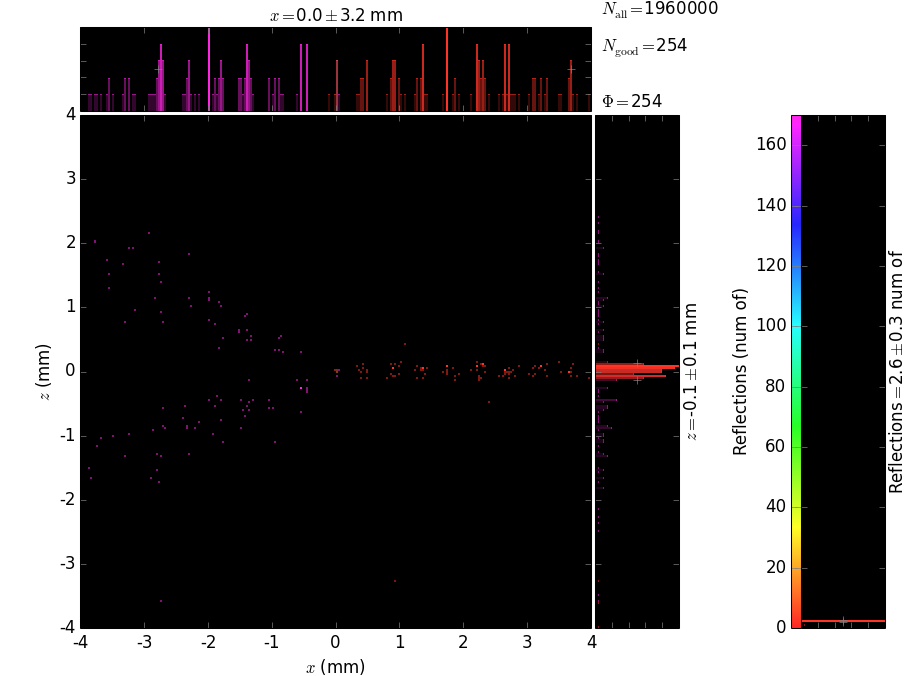
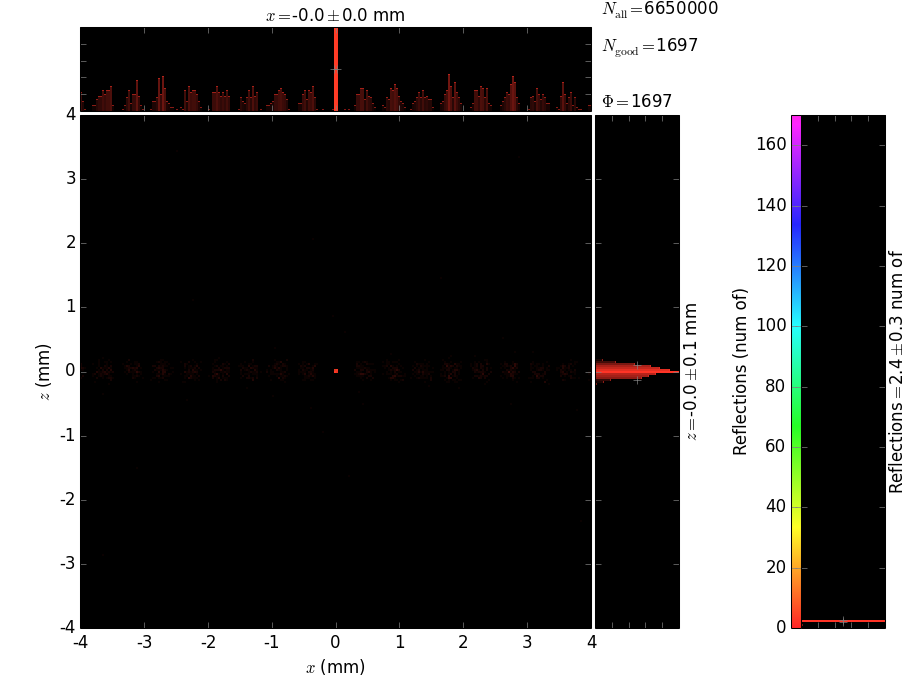
minor progress

diff --git a/LensPolynomial.py b/LensPolynomial.py
@@ -17,33 +17,33 @@ import matplotlib.pyplot as plt
 # S2(x) - ray path from lens exit to the point of focus
 
 # Make a picture explaining those
-def getPolyCoeffs(x0,x1,xm,x2,x3,h1,Din,Dout,hMax):
+def getPolyCoeffs(y0,y1,ym,y2,y3,h1,Din,Dout,hMax):
     h2 = h1 * Dout/Din
     hm = hMax * h1/(Din/2.)
     # y(x) = p0 + p1 x + p2 x**2 + p3 x**3 + p4 x**$ + p5 x**5
     a = []
     b = []
     # Preparing A*p = B matrices for linalg.solve 
-    # y(x1) == h1
-    a.append(shape_coeffs(x1))
+    # y(y1) == h1
+    a.append(shape_coeffs(y1))
     b.append(h1)
-    # y(x2) == h2
-    a.append(shape_coeffs(x2))
+    # y(y2) == h2
+    a.append(shape_coeffs(y2))
     b.append(h2)
-    # y(xm) == hm
-    a.append(shape_coeffs(xm))
+    # y(ym) == hm
+    a.append(shape_coeffs(ym))
     b.append(hm)
-    # y'(x1) == S1'(x1)
+    # y'(y1) == S1'(y1)
     # first find left slope
-    s1 = h1/(x1-x0)
-    a.append(diff_coeffs(x1))
+    s1 = h1/(y1-y0)
+    a.append(diff_coeffs(y1))
     b.append(s1)
-    # y'(x2) == S2'(x)
-    s2 = -h2/(x3-x2)
-    a.append(diff_coeffs(x2))
+    # y'(y2) == S2'(x)
+    s2 = -h2/(y3-y2)
+    a.append(diff_coeffs(y2))
     b.append(s2)
-    # y'(xm) == 0
-    a.append(diff_coeffs(xm))
+    # y'(ym) == 0
+    a.append(diff_coeffs(ym))
     b.append(0.)
     p = np.linalg.solve(a,b)
     return p
@@ -58,19 +58,19 @@ def diff_coeffs(x):
 
 if __name__ == '__main__':
     Din, Dout = 4.5, 2.4
-    x0,x1,xm,x2,x3,h1 = 0., 40., 85., 140., 155., -2.1
+    y0,y1,ym,y2,y3,h1 = 0., 40., 85., 140., 155., -2.1
     hMax = 4.
     h2 = h1 * Dout/Din
     hm = 4. * h1/(Din/2.)
-    p = getPolyCoeffs(x0,x1,xm,x2,x3,h1,Din,Dout,hMax)
+    p = getPolyCoeffs(y0,y1,ym,y2,y3,h1,Din,Dout,hMax)
     print p
-    x = np.linspace(x1,x2,1000)
+    x = np.linspace(y1,y2,1000)
     y = p[0] + p[1]*x + p[2]*x**2 + p[3]*x**3 + p[4]*x**4 + p[5]*x**5
     fig1 = plt.figure(1,figsize=(10,4))
     ax1 = plt.subplot(111, label='dupa')
-    ax1.set_xlim([x0,x3])
+    ax1.set_xlim([y0,y3])
     ax1.set_ylim([-4, 4])
     ax1.plot(x,y,'r-', lw=2)
-    ax1.plot([x0,x1],[0,h1],'k-',lw=0.5)
-    ax1.plot([x2,x3],[h2,0],'k-',lw=0.5)
+    ax1.plot([y0,y1],[0,h1],'k-',lw=0.5)
+    ax1.plot([y2,y3],[h2,0],'k-',lw=0.5)
     plt.show()

diff --git a/realisticPolycapillary.py b/realisticPolycapillary.py
@@ -59,7 +59,7 @@ class BentCapillary(roe.OE):
         + self.p[4]*s**4 + self.p[5]*s**5
 
     def local_x0Prime(self, s):
-        return 1 + self.p[1] + 2*self.p[2]*s + 3*self.p[3]*s**2
+        return self.p[1] + 2*self.p[2]*s + 3*self.p[3]*s**2
         + 4*self.p[4]*s**3 + 5*self.p[5]*s**4
 
     def local_r0(self, s):
@@ -96,7 +96,7 @@ class BentCapillary(roe.OE):
         y = s
         z = r * np.cos(phi)
         return x, y, z
-        
+
 def build_beamline(nrays=1e4):
     beamLine = raycing.BeamLine(height=0)
 
@@ -107,7 +107,8 @@ def build_beamline(nrays=1e4):
         distE='lines', energies=(E0,), polarization='horizontal')
 
     # Insert screen at the lens entrance here
-    beamLine.entScreen = rsc.Screen(beamLine, 'EntranceScreen', (0,y1,0))
+    beamLine.entScreen = rsc.Screen(beamLine, 'EntranceScreen',
+    (0,y1,0))
 
     beamLine.capillaries = []
     for h_it in range(-10,11):
